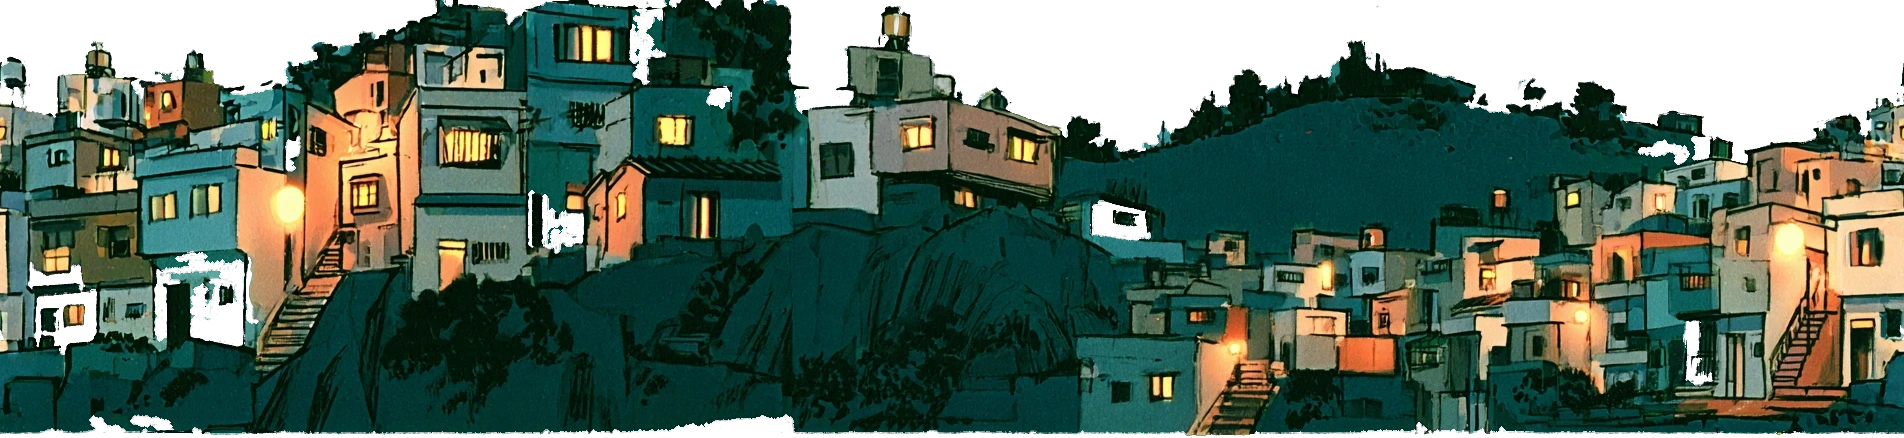
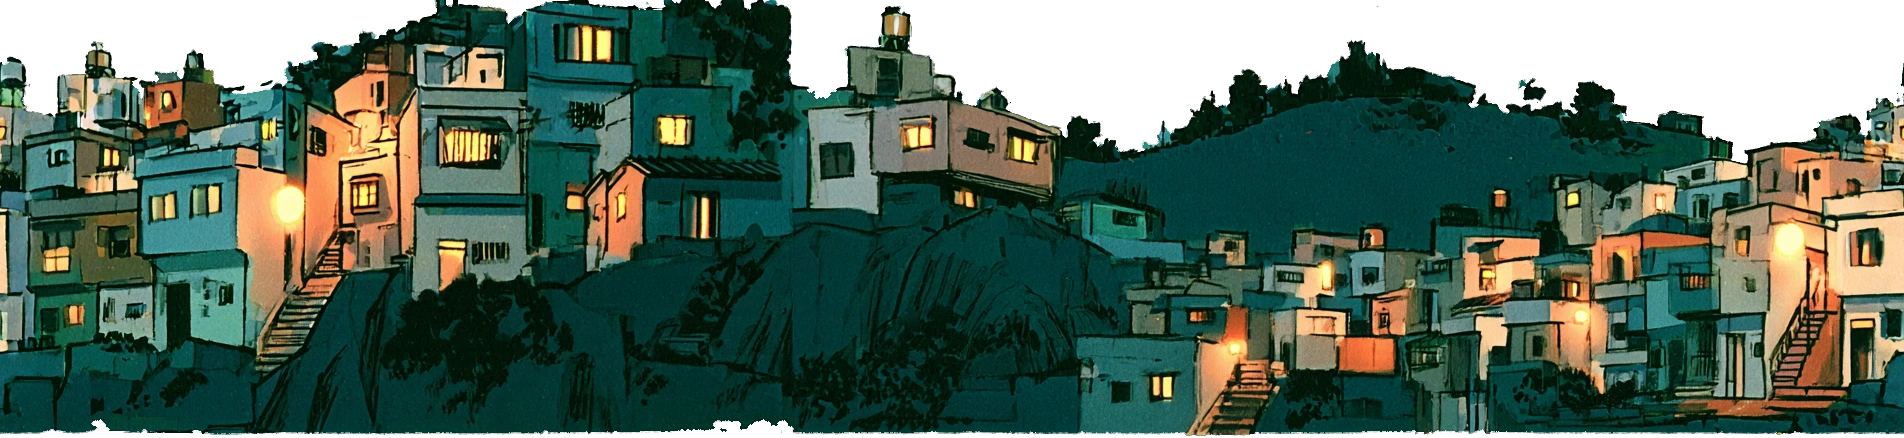
산동네 오려내기 다시: 집 벽 구멍(땜빵) 제거, 흐림 효과 제거
Claude-Session: https://claude.ai/code/session_015fNbvzvz4xuREQtMjmLhTY

diff --git a/stage/index.html b/stage/index.html
@@ -32,7 +32,7 @@ import {SEG,TRIP_H,lastDeparture,where} from './timetable.js';
 const SCENE={
   name:'부산',
   far:{img:'far.webp',w:1904,h:640,hz:414,moonU:.805,moonAt:.74,fold:110},
-  mid:{img:'mid.webp',w:1904,h:438,z:-70,hgt:26,topBelowHz:.0,tint:[.9,.9,.96],fx:{haze:.38,sat:.7,bri:.82,blur:1}},
+  mid:{img:'mid.webp',w:1904,h:438,z:-70,hgt:26,topBelowHz:.0,tint:[.9,.9,.96],fx:{haze:.3,sat:.75,bri:.84}},
   emb:{img:'emb.webp',w:2176,h:310,rail:57,sea:288,scale:.0095,fx:{haze:.12,sat:.6,bri:.62}},
   ppl:[['pf_p02.webp','dine',.62,1.32]]
 };
